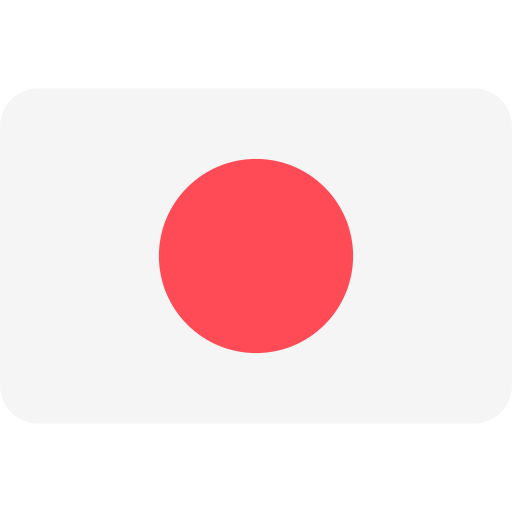
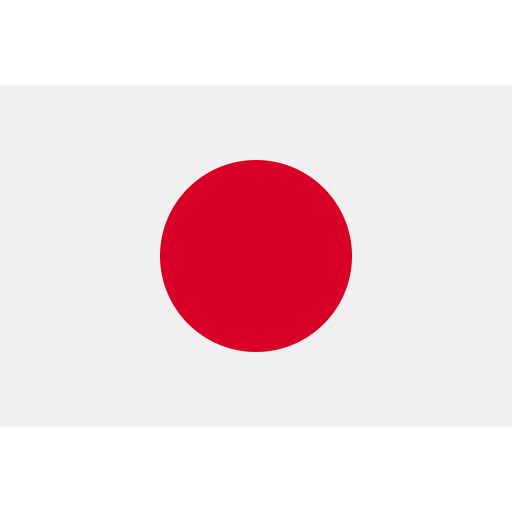
refactor(setting view): change grid view to wrap

Changed region(s): [[0.3125, 0.3125, 0.6875, 0.6875]]

diff --git a/lib/app/modules/setting/views/setting_view.dart b/lib/app/modules/setting/views/setting_view.dart
@@ -17,61 +17,60 @@ class SettingView extends GetView<SettingController> {
       body: Padding(
         padding: const EdgeInsets.symmetric(horizontal: 20, vertical: 25),
         child: SafeArea(
-          child: GridView(
-            physics: const NeverScrollableScrollPhysics(),
-            gridDelegate: const SliverGridDelegateWithFixedCrossAxisCount(
-              crossAxisCount: 2,
-              crossAxisSpacing: 10,
-              mainAxisSpacing: 10,
-              childAspectRatio: 6 / 4,
-            ),
-            children: controller.lang.asMap().entries.map((entry) {
-              var item = entry.value;
-              return Ink(
-                decoration: BoxDecoration(
-                  color: Colors.grey[200],
-                  border: Border.all(
-                      color: item['id'] == controller.selectedLang.value
-                          ? Colors.green
-                          : Colors.blue,
-                      width:
-                          item['id'] == controller.selectedLang.value ? 2 : 1),
-                  borderRadius: BorderRadius.circular(10),
-                ),
-                child: InkWell(
-                  onTap: () {
-                    controller.changeLanguage(item['text'] as String);
-                  },
-                  borderRadius: BorderRadius.circular(10),
-                  splashColor: Colors.blue[300],
-                  child: Stack(alignment: Alignment.center, children: [
-                    item['id'] == controller.selectedLang.value
-                        ? const Align(
-                            alignment: Alignment.topRight,
-                            child: Padding(
-                              padding: EdgeInsets.only(right: 10, top: 5),
-                              child: Icon(
-                                Icons.check_circle_sharp,
-                                color: Colors.green,
-                                size: 25,
-                              ),
-                            ),
-                          )
-                        : const SizedBox(),
-                    Column(
-                      children: [
-                        Image(
-                          image: item['image'] as ImageProvider,
-                          width: 80,
-                          height: 80,
+          child: Column(
+            crossAxisAlignment: CrossAxisAlignment.start,
+            children: [
+              Center(
+                child: Wrap(
+                  spacing: MediaQuery.of(context).size.width / 10,
+                  runSpacing: MediaQuery.of(context).size.width / 10,
+                  children: controller.lang.asMap().entries.map((item) {
+                    return Ink(
+                      width: 150,
+                      height: 100,
+                      decoration: BoxDecoration(
+                        color: Colors.grey[300],
+                        border: Border.all(
+                            color: item.value['id'] ==
+                                    controller.selectedLang.value
+                                ? Colors.green
+                                : Colors.blue,
+                            width: item.value['id'] ==
+                                    controller.selectedLang.value
+                                ? 2.5
+                                : 1.5),
+                        image: DecorationImage(
+                            image: item.value['image'] as ImageProvider,
+                            filterQuality: FilterQuality.low,
+                            fit: BoxFit.contain),
+                      ),
+                      child: InkWell(
+                        onTap: () {
+                          controller
+                              .changeLanguage(item.value['text'] as String);
+                        },
+                        child: Align(
+                          alignment: Alignment.topRight,
+                          child: Padding(
+                            padding: const EdgeInsets.only(top: 5),
+                            child: item.value['id'] ==
+                                    controller.selectedLang.value
+                                ? const Icon(Icons.check_circle_rounded,
+                                    color: Colors.green, size: 25)
+                                : const SizedBox(),
+                          ),
                         ),
-                        Text(item['text'] as String)
-                      ],
-                    ),
-                  ]),
+                      ),
+                    );
+                  }).toList(),
                 ),
-              );
-            }).toList(),
+              ),
+              const SizedBox(height: 10),
+              Text(
+                context.l10n.settingOther,
+                style: const TextStyle(fontSize: 25),
+              )
+            ],
           ),
         ),
       ),

diff --git a/lib/gen/assets.gen.dart b/lib/gen/assets.gen.dart
@@ -12,29 +12,18 @@ import 'package:flutter/widgets.dart';
 class Assets {
   const Assets._();
 
-  static const AssetGenImage flag = AssetGenImage('assets/flag.png');
-  static const AssetGenImage german = AssetGenImage('assets/german.png');
+  static const AssetGenImage germany = AssetGenImage('assets/germany.png');
+  static const AssetGenImage indonesia = AssetGenImage('assets/indonesia.png');
   static const AssetGenImage japan = AssetGenImage('assets/japan.png');
   static const AssetGenImage rusia = AssetGenImage('assets/rusia.png');
   static const AssetGenImage southKorea =
       AssetGenImage('assets/south-korea.png');
-  static const AssetGenImage spainCircle =
-      AssetGenImage('assets/spain-circle.png');
-  static const AssetGenImage spain = AssetGenImage('assets/spain.png');
   static const AssetGenImage unitedKingdom =
       AssetGenImage('assets/united-kingdom.png');
 
   /// List of all assets
-  static List<AssetGenImage> get values => [
-        flag,
-        german,
-        japan,
-        rusia,
-        southKorea,
-        spainCircle,
-        spain,
-        unitedKingdom
-      ];
+  static List<AssetGenImage> get values =>
+      [germany, indonesia, japan, rusia, southKorea, unitedKingdom];
 }
 
 class AssetGenImage {

diff --git a/lib/app/utils/language_controller.dart b/lib/app/utils/language_controller.dart
@@ -18,11 +18,15 @@ class LanguageController extends GetxController {
       "image": AssetImage(Assets.southKorea.path)
     },
     {"id": "japan", "text": "Japan", "image": AssetImage(Assets.japan.path)},
-    {"id": "german", "text": "German", "image": AssetImage(Assets.german.path)},
+    {
+      "id": "german",
+      "text": "German",
+      "image": AssetImage(Assets.germany.path)
+    },
     {
       "id": "indonesia",
       "text": "Indonesia",
-      "image": AssetImage(Assets.flag.path)
+      "image": AssetImage(Assets.indonesia.path)
     },
   ];
 
@@ -42,6 +46,14 @@ class LanguageController extends GetxController {
         '${language.value.value.languageCode}_${language.value.value.countryCode}');
     SharedPref().saveString('langId', selectedLangId.value);
     Get.updateLocale(lang.value);
+    update();
+  }
+
+  void changeToDefault() async {
+    await SharedPref().clear();
+    selectedLangId.value = 'english';
+
+    Get.updateLocale(const Locale('en', 'US'));
     update();
   }
 

diff --git a/lib/app/modules/setting/controllers/setting_controller.dart b/lib/app/modules/setting/controllers/setting_controller.dart
@@ -1,14 +1,18 @@
 import 'package:get/get.dart';
+import 'package:getx_change_language/app/modules/home/controllers/home_controller.dart';
 import 'package:getx_change_language/app/utils/language.dart';
 import 'package:getx_change_language/app/utils/language_controller.dart';
 
 class SettingController extends GetxController {
-  final language = Get.put(LanguageController());
+  final language = Get.find<LanguageController>();
+  final home = Get.put(HomeController());
 
   var lang = [<String, Object>{}].obs;
   var selectedLang = ''.obs;
 
-  SettingController() {
+  @override
+  void onInit() {
+    super.onInit();
     getLanguageList();
     getSelectedLang();
   }
@@ -28,6 +32,7 @@ class SettingController extends GetxController {
       orElse: () => Language.english,
     );
     language.changeLanguage(vl);
+    home.getFlag();
     getSelectedLang();
   }
 }

diff --git a/lib/app/modules/home/views/home_view.dart b/lib/app/modules/home/views/home_view.dart
@@ -34,6 +34,12 @@ class HomeView extends GetView<HomeController> {
                         binding: SettingBinding());
                   },
                   child: Text(context.l10n.settingBtn),
+                ),
+                MenuItemButton(
+                  onPressed: () {
+                    controller.clearPref();
+                  },
+                  child: Text(context.l10n.clearPref),
                 )
               ],
             ),
@@ -53,7 +59,7 @@ class HomeView extends GetView<HomeController> {
                   width: 150,
                   height: 90,
                   child: Image(
-                    image: controller.getFlag(),
+                    image: controller.flagImage['image'] as ImageProvider,
                     fit: BoxFit.cover,
                   ),
                 ),

diff --git a/lib/app/modules/home/controllers/home_controller.dart b/lib/app/modules/home/controllers/home_controller.dart
@@ -5,11 +5,18 @@ import 'package:getx_change_language/app/utils/shared_pref.dart';
 class HomeController extends GetxController {
   final language = Get.find<LanguageController>();
 
-  dynamic getFlag() {
-    final idLang = SharedPref().getString('langId');
+  var flagImage = <String, Object>{}.obs;
+
+  void getFlag() {
+    final idLang = SharedPref().getString('langId') ?? 'english';
     final image = language.langList.firstWhere((it) => it['id'] == idLang);
 
-    return image['image'];
+    flagImage.value = image;
+    // return image['image'];
+  }
+
+  void clearPref() {
+    language.changeToDefault();
   }
 
   @override

diff --git a/lib/main.dart b/lib/main.dart
@@ -16,6 +16,7 @@ void main() async {
   runApp(
     GetMaterialApp(
       title: "Application",
+      debugShowCheckedModeBanner: false,
       initialRoute: AppPages.INITIAL,
       getPages: AppPages.routes,
       locale: language.loadLanguage(),

diff --git a/README.md b/README.md
@@ -1,8 +1,10 @@
-# getx_change_language
+# GetX Change Language App
 
 A new Flutter project.
 
 ## Getting Started
+
+![](https://github.com/Hendri-M/gifs-only/blob/main/language.gif)
 
 This project is a starting point for a Flutter application.
 
